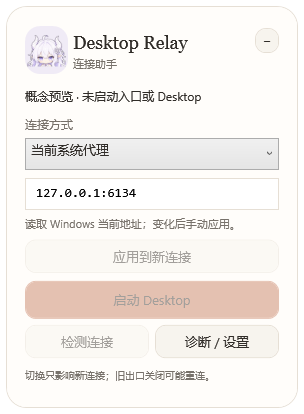
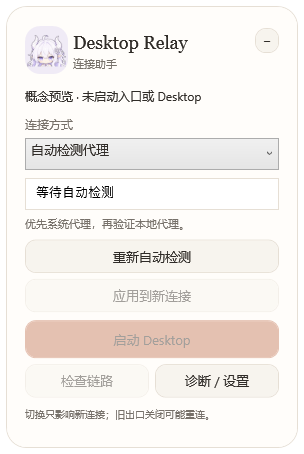
Improve automatic proxy detection, diagnostics and capsule position restoration

diff --git a/src/App/MainWindow.xaml b/src/App/MainWindow.xaml
@@ -1,4 +1,4 @@
-<Window x:Class="DesktopRelay.App.MainWindow" xmlns="http://schemas.microsoft.com/winfx/2006/xaml/presentation" xmlns:x="http://schemas.microsoft.com/winfx/2006/xaml" Title="Desktop Relay" Width="304" Height="428" WindowStyle="None" AllowsTransparency="True" Background="Transparent" ResizeMode="NoResize" ShowInTaskbar="False">
+<Window x:Class="DesktopRelay.App.MainWindow" xmlns="http://schemas.microsoft.com/winfx/2006/xaml/presentation" xmlns:x="http://schemas.microsoft.com/winfx/2006/xaml" Title="Desktop Relay" Width="304" Height="454" WindowStyle="None" AllowsTransparency="True" Background="Transparent" ResizeMode="NoResize" ShowInTaskbar="False">
  <Grid Margin="6">
   <Border x:Name="Card" Background="{StaticResource Paper}" BorderBrush="{StaticResource Line}" BorderThickness="1" CornerRadius="20" Padding="18">
    <Grid><Grid.RowDefinitions><RowDefinition Height="54"/><RowDefinition Height="*"/></Grid.RowDefinitions>
@@ -10,9 +10,10 @@
     <StackPanel Grid.Row="1">
      <TextBlock x:Name="StatusText" Text="入口未启动" FontSize="12" Margin="0,9,0,12" TextWrapping="Wrap"/>
      <TextBlock Text="连接方式" Foreground="{StaticResource Muted}" FontSize="12" Margin="0,0,0,6"/>
-     <ComboBox x:Name="ModeBox" Height="32" SelectionChanged="ModeChanged" FontFamily="Microsoft YaHei" FontSize="13"><ComboBoxItem Content="当前系统代理"/><ComboBoxItem Content="自定义 HTTP 代理"/><ComboBoxItem Content="直连 / TUN"/></ComboBox>
+     <ComboBox x:Name="ModeBox" Height="32" SelectionChanged="ModeChanged" FontFamily="Microsoft YaHei" FontSize="13"><ComboBoxItem Content="自动检测代理"/><ComboBoxItem Content="自定义 HTTP 代理"/><ComboBoxItem Content="直连 / TUN"/></ComboBox>
      <TextBox x:Name="AddressBox" Height="32" Margin="0,8,0,0" Padding="8,6" FontFamily="Consolas" FontSize="13" BorderBrush="{StaticResource Line}" TextChanged="AddressChanged"/>
      <TextBlock x:Name="RouteNote" Text="读取系统代理，不固定软件或端口" FontSize="11" Foreground="{StaticResource Muted}" Margin="0,6,0,6" TextWrapping="Wrap"/>
+     <Button x:Name="DiscoverButton" Content="重新自动检测" Click="DiscoverClick" ToolTip="只读识别代理进程的监听端口，选择后手动应用"/>
      <Button x:Name="ApplyButton" Content="应用到新连接" Click="ApplyClick"/>
      <Button x:Name="LaunchButton" Content="启动 Desktop" Background="#C47758" Foreground="White" BorderBrush="#C47758" Height="38" Margin="0,5,0,3" Click="LaunchClick"/>
      <Grid><Grid.ColumnDefinitions><ColumnDefinition/><ColumnDefinition/></Grid.ColumnDefinitions><Button x:Name="CheckButton" Content="检查链路" Click="CheckClick" Margin="0,3,3,3"/><Button Grid.Column="1" Content="诊断 / 设置" Click="DetailsClick" Margin="3,3,0,3"/></Grid>

diff --git a/src/App/MainWindow.xaml.cs b/src/App/MainWindow.xaml.cs
@@ -30,6 +30,9 @@ public partial class MainWindow : Window
     private Forms.NotifyIcon? tray;
     private Icon? trayIcon;
     private bool initialized, exiting, applied, changed, launched, busy, entryReady;
+    private readonly CapsuleAnchor capsuleAnchor = new();
+    private Route? automaticRoute;
+    private bool detecting;
     private string systemFingerprint = "";
     private string view = "expanded";
     public MainWindow(bool preview)
@@ -41,7 +44,7 @@ public partial class MainWindow : Window
         App.Trace("Before XAML");
         InitializeComponent();
         App.Trace("After XAML");
-        ModeBox.SelectedIndex = Math.Clamp(settings.Mode, 0, 2);
+        ModeBox.SelectedIndex = 0;
         AddressBox.Text = settings.CustomProxy;
         initialized = true;
         Topmost = settings.Topmost;
@@ -100,7 +103,14 @@ public partial class MainWindow : Window
         }
         catch (Exception ex) { StatusText.Text = "入口未就绪"; Log(ex.Message); RouteNote.Text = ex.Message; await relay.StopAsync(); return; }
         systemFingerprint = SystemProxy.Fingerprint();
-        try { ApplySelected(); }
+        // Preserve the last explicit route while isolated probes run; probes never change live forwarding.
+        try
+        {
+            if (settings.Mode == 1) { relay.SwitchRoute(Route.ParseProxy(settings.CustomProxy)); applied = true; }
+            else if (settings.Mode == 2) { relay.SwitchRoute(new Route(RouteMode.Direct)); applied = true; }
+        }
+        catch (Exception ex) { Log("Saved route unavailable: " + ex.Message); }
+        try { await DetectAutomaticAsync(true); }
         catch (Exception ex) { StatusText.Text = "入口就绪 · 等待选择出口"; MiniStatus.Text = "待选择出口"; Log(ex.Message); RouteNote.Text = ex.Message; }
         timer.Tick += (_, _) => Tick(); timer.Start();
         await Task.CompletedTask;
@@ -156,7 +166,7 @@ public partial class MainWindow : Window
     {
         return ModeBox.SelectedIndex switch
         {
-            0 => SystemProxy.Read(),
+            0 => automaticRoute ?? throw new InvalidOperationException("自动检测尚未找到可用代理。"),
             1 => Route.ParseProxy(AddressBox.Text.Trim()),
             2 => new Route(RouteMode.Direct),
             _ => throw new InvalidOperationException("请选择连接方式。")
@@ -169,16 +179,20 @@ public partial class MainWindow : Window
         AddressBox.IsReadOnly = ModeBox.SelectedIndex != 1;
         try
         {
-            if (ModeBox.SelectedIndex == 0) { var route = SystemProxy.Read(); AddressBox.Text = Describe(route); RouteNote.Text = "读取 Windows 当前地址；变化后手动应用。"; }
+            if (ModeBox.SelectedIndex == 0) { AddressBox.Text = automaticRoute == null ? "等待自动检测" : Describe(automaticRoute); RouteNote.Text = "优先系统代理，再验证本地代理。"; }
             else if (ModeBox.SelectedIndex == 1) { AddressBox.Text = settings.CustomProxy; RouteNote.Text = "输入 HTTP / 混合代理入口，不填 VLESS 服务器。"; }
             else { AddressBox.Text = "由系统网络接管"; RouteNote.Text = "不会自动检测或启用 TUN。"; }
         }
-        catch (Exception ex) { AddressBox.Text = "未检测到静态代理"; RouteNote.Text = ex.Message; }
+        catch (Exception ex) { AddressBox.Text = "系统静态代理不可用"; RouteNote.Text = ex.Message + " 可点击发现本地代理。"; }
         changed = true;
         ApplyButton.Content = "应用到新连接";
         ApplyButton.IsEnabled = !preview && entryReady;
     }
-    private void ModeChanged(object sender, SelectionChangedEventArgs e) => RefreshSelection();
+    private async void ModeChanged(object sender, SelectionChangedEventArgs e)
+    {
+        RefreshSelection();
+        if (initialized && entryReady && !detecting && ModeBox.SelectedIndex == 0) await DetectAutomaticAsync(false);
+    }
     private void AddressChanged(object sender, TextChangedEventArgs e)
     {
         if (!initialized || ModeBox.SelectedIndex != 1) return;
@@ -197,7 +211,7 @@ public partial class MainWindow : Window
         if (settings.Mode == 1) settings.CustomProxy = AddressBox.Text.Trim();
         systemFingerprint = SystemProxy.Fingerprint();
         StatusText.Text = "入口就绪 · 出口未检测";
-        MiniStatus.Text = route.Mode == RouteMode.Direct ? "直连 / TUN · 未检测" : (ModeBox.SelectedIndex == 0 ? "系统代理 · 未检测" : "自定义代理 · 未检测");
+        MiniStatus.Text = route.Mode == RouteMode.Direct ? "直连 / TUN · 未检测" : (ModeBox.SelectedIndex == 0 ? "自动代理 · 未检测" : "自定义代理 · 未检测");
         MiniStatus.ToolTip = Describe(route);
         RouteNote.Text = route.Mode == RouteMode.Direct ? "直接连接，由系统网络决定路由。" : "已应用，后续新连接使用此地址。";
         ApplyButton.Content = "已应用"; ApplyButton.IsEnabled = false;
@@ -234,23 +248,95 @@ public partial class MainWindow : Window
     private void Tick()
     {
         UpdateProcessState();
-        if (ModeBox.SelectedIndex != 0) return;
+        if (busy || ModeBox.SelectedIndex != 0) return;
         string next = SystemProxy.Fingerprint();
         if (next != systemFingerprint)
         {
-            systemFingerprint = next; RefreshSelection();
+            systemFingerprint = next; automaticRoute = null; RefreshSelection();
+            _ = DetectAutomaticAsync(false);
             RouteNote.Text = "系统代理已变化。当前出口保持原值，请点击应用。";
             Log("系统代理变化，等待手动应用。");
         }
     }
+    private async Task<bool> ProbeCandidateAsync(string address)
+    {
+        try
+        {
+            using var handler = new HttpClientHandler { UseProxy = true, Proxy = new WebProxy(address), AllowAutoRedirect = false };
+            using var http = new HttpClient(handler) { Timeout = TimeSpan.FromSeconds(8) };
+            using var request = new HttpRequestMessage(HttpMethod.Head, "https://chatgpt.com/") { Version = HttpVersion.Version11, VersionPolicy = HttpVersionPolicy.RequestVersionExact };
+            using var response = await http.SendAsync(request, HttpCompletionOption.ResponseHeadersRead);
+            Log($"Automatic probe address={address} HTTP={(int)response.StatusCode}");
+            // HTTP 403 still proves a completed HTTPS exchange, not account or WebSocket availability.
+            return (int)response.StatusCode < 500;
+        }
+        catch (Exception ex)
+        {
+            for (Exception? cause = ex; cause != null; cause = cause.InnerException)
+                Log($"Automatic probe address={address} failed={cause.GetType().Name}: {cause.Message}");
+            return false;
+        }
+    }
+    private async Task DetectAutomaticAsync(bool applySingle)
+    {
+        if (preview || busy || detecting || !entryReady) return;
+        detecting = busy = true;
+        ModeBox.IsEnabled = AddressBox.IsEnabled = ApplyButton.IsEnabled = CheckButton.IsEnabled = DiscoverButton.IsEnabled = false;
+        StatusText.Text = "正在自动发现并验证代理…";
+        try
+        {
+            string? system = null;
+            try { var route = SystemProxy.Read(); if (!(route.Port == relay.Port && (route.Host == "127.0.0.1" || route.Host == "localhost"))) system = $"http://{route.Host}:{route.Port}"; }
+            catch (Exception ex) { Log("Automatic system proxy unavailable: " + ex.Message); }
+            var candidates = await AutoProxy.ResolveAsync(system, () => LocalProxyDiscovery.ReadAsync(relay.Port), ProbeCandidateAsync);
+            if (candidates.Count == 1)
+            {
+                automaticRoute = Route.ParseProxy(candidates[0].Address);
+                ModeBox.SelectedIndex = 0; RefreshSelection();
+                if (applySingle) ApplySelected();
+                StatusText.Text = applySingle ? "自动代理已应用 · HTTPS 有响应" : "已发现可用代理 · 等待应用";
+                RouteNote.Text = "HTTPS 验证有响应；账号与 WebSocket 仍需实际使用确认。";
+            }
+            else if (candidates.Count == 0)
+            {
+                automaticRoute = null;
+                ModeBox.SelectedIndex = 1; RefreshSelection();
+                StatusText.Text = "自动检测未找到可用代理";
+                RouteNote.Text = "请填写自定义 HTTP 代理，或手动选择直连 / TUN。当前已应用的出口保持不变。";
+            }
+            else
+            {
+                StatusText.Text = "发现多个有 HTTPS 响应的代理";
+                var panel = new StackPanel { Margin = new Thickness(16) };
+                panel.Children.Add(new TextBlock { Text = "请选择出口；选择后点击应用到新连接。", TextWrapping = TextWrapping.Wrap });
+                var window = new Window { Title = "选择自动发现的代理", Width = 460, Height = 320, Owner = this, Content = new ScrollViewer { Content = panel }, WindowStartupLocation = WindowStartupLocation.CenterOwner };
+                foreach (var candidate in candidates)
+                {
+                    var button = new Button { Content = candidate.ProcessName + " · " + candidate.Address, Margin = new Thickness(0,4,0,4) };
+                    button.Click += (_, _) => { automaticRoute = Route.ParseProxy(candidate.Address); ModeBox.SelectedIndex = 0; RefreshSelection(); window.Close(); };
+                    panel.Children.Add(button);
+                }
+                window.Show();
+            }
+        }
+        catch (Exception ex) { StatusText.Text = "自动发现失败"; RouteNote.Text = ex.Message; Log("Automatic discovery failed: " + ex.Message); }
+        finally
+        {
+            detecting = busy = false;
+            ModeBox.IsEnabled = AddressBox.IsEnabled = CheckButton.IsEnabled = DiscoverButton.IsEnabled = true;
+            ApplyButton.IsEnabled = changed; UpdateProcessState();
+        }
+    }
+    private async void DiscoverClick(object sender, RoutedEventArgs e) => await DetectAutomaticAsync(false);
     private async void CheckClick(object sender, RoutedEventArgs e)
     {
         if (preview || busy) return;
-        busy = true; CheckButton.IsEnabled = false;
+        if (!entryReady) { StatusText.Text = "入口尚未就绪"; RouteNote.Text = "没有发起网络检测，请查看入口启动记录。"; Log("Probe skipped: entry not ready"); return; }
+        if (!applied || changed) { StatusText.Text = "所选出口尚未应用"; RouteNote.Text = "请点击应用到新连接，再检查链路；本次未发起网络请求。"; Log("Probe skipped: selected route not applied"); return; }
+        busy = true; CheckButton.IsEnabled = ApplyButton.IsEnabled = ModeBox.IsEnabled = AddressBox.IsEnabled = DiscoverButton.IsEnabled = false;
         StatusText.Text = "正在检查 Relay 转发链路…";
         try
         {
-            if (!entryReady || !applied || changed) throw new InvalidOperationException("请先应用出口，再检查实际转发链路。");
             using var handler = new HttpClientHandler { UseProxy = true, AllowAutoRedirect = false, Proxy = new WebProxy($"http://127.0.0.1:{relay.Port}") };
             using var http = new HttpClient(handler) { Timeout = TimeSpan.FromSeconds(15) };
             using var request = new HttpRequestMessage(HttpMethod.Head, "https://chatgpt.com/") { Version = HttpVersion.Version11, VersionPolicy = HttpVersionPolicy.RequestVersionExact };
@@ -259,16 +345,26 @@ public partial class MainWindow : Window
             RouteNote.Text = "已通过固定入口验证 HTTPS 转发；账号与 Desktop WebSocket 尚需实际请求验证。";
             Log("HTTPS end-to-end probe via relay received HTTP " + (int)response.StatusCode);
         }
-        catch (Exception ex) { StatusText.Text = "Relay 链路检测失败"; RouteNote.Text = "请先应用出口，并检查诊断记录中的失败阶段。"; Log("HTTPS end-to-end probe failed: " + ex.GetType().Name); }
-        finally { busy = false; CheckButton.IsEnabled = true; UpdateProcessState(); }
+        catch (Exception ex)
+        {
+            StatusText.Text = ex is OperationCanceledException ? "HTTPS 检测超时（15 秒）" : "HTTPS 链路检测失败";
+            RouteNote.Text = ex is OperationCanceledException ? "已应用出口，但 15 秒内未收到响应；详见诊断记录。" : ex.Message;
+            for (Exception? cause = ex; cause != null; cause = cause.InnerException)
+                Log("HTTPS end-to-end probe failed: " + cause.GetType().Name + " HResult=" + cause.HResult + ": " + cause.Message);
+        }
+        finally { busy = false; CheckButton.IsEnabled = ModeBox.IsEnabled = AddressBox.IsEnabled = DiscoverButton.IsEnabled = true; ApplyButton.IsEnabled = changed; UpdateProcessState(); }
     }
     private void SetView(string mode)
     {
-        view = mode is "capsule" or "pet" ? "capsule" : "expanded";
+        string nextView = mode is "capsule" or "pet" ? "capsule" : "expanded";
+        if (IsLoaded && view == "capsule" && nextView == "expanded") capsuleAnchor.Remember(Left, Top);
+        bool restoreCapsule = IsLoaded && view == "expanded" && nextView == "capsule";
+        view = nextView;
         Card.Visibility = view == "expanded" ? Visibility.Visible : Visibility.Collapsed;
         Capsule.Visibility = view == "capsule" ? Visibility.Visible : Visibility.Collapsed;
         Width = view == "expanded" ? 304 : 250;
-        Height = view == "expanded" ? 414 : 78;
+        Height = view == "expanded" ? 454 : 78;
+        if (restoreCapsule) { var anchor = capsuleAnchor.Restore(Left, Top); Left = anchor.Left; Top = anchor.Top; }
         settings.View = view;
         if (IsLoaded) { KeepVisible(); Save(); }
     }
@@ -298,7 +394,7 @@ public partial class MainWindow : Window
     {
         var element = e.OriginalSource as DependencyObject;
         while (element != null) { if (element is System.Windows.Controls.Primitives.ButtonBase || element is TextBox || element is ComboBox) return; element = System.Windows.Media.VisualTreeHelper.GetParent(element); }
-        if (e.LeftButton == MouseButtonState.Pressed) { DragMove(); KeepVisible(); Save(); }
+        if (e.LeftButton == MouseButtonState.Pressed) { DragMove(); KeepVisible(); if (view == "capsule") capsuleAnchor.Remember(Left, Top); Save(); }
     }
     private void DetailsClick(object sender, RoutedEventArgs e) => ShowDetails();
     private void ShowDetails()

diff --git a/src/WindowsTests/Program.cs b/src/WindowsTests/Program.cs
@@ -14,6 +14,22 @@ foreach(var setting in new[]{(false,"127.0.0.1:6134"),(true,""),(true,"socks=127
     try{SystemProxy.Parse(setting.Item1,setting.Item2);}catch(InvalidOperationException){rejected=true;}catch(ArgumentException){rejected=true;}
     Assert(rejected,"disabled/unsupported proxy rejected");
 }
+var candidates = LocalProxyDiscovery.Parse("  TCP    127.0.0.1:7892    0.0.0.0:0    LISTENING    2072\n  TCP    0.0.0.0:6134    0.0.0.0:0    LISTENING    42\n  TCP    127.0.0.1:58466    0.0.0.0:0    LISTENING    2072\n  TCP    127.0.0.1:9000    0.0.0.0:0    LISTENING    1\n  TCP    127.0.0.1:7892    1.2.3.4:443    ESTABLISHED    2072", id => id == 2072 ? "FlyingBirdCore" : id == 42 ? "CloudFox" : "other", 58466);
+Assert(candidates.Count == 2 && candidates.Any(c => c.Address == "http://127.0.0.1:7892"), "discovery identifies proxy listeners and excludes relay, unrelated processes and established connections");
+var anchor = new CapsuleAnchor();
+anchor.Remember(1700, 950);
+var restored = anchor.Restore(1500, 550);
+Assert(restored == (1700d, 950d), "expansion clamping does not overwrite capsule anchor");
+anchor.Remember(100, 200);
+Assert(anchor.Restore(0, 0) == (100d,200d), "dragged capsule updates its return position");
+var attempted = new List<string>();
+var autoResult = await AutoProxy.ResolveAsync("http://127.0.0.1:6134", () => Task.FromResult(new List<LocalProxyCandidate>{new("http://127.0.0.1:7892", "FlyingBirdCore")}), address => { attempted.Add(address); return Task.FromResult(true); });
+Assert(autoResult.Count == 1 && attempted.SequenceEqual(new[]{"http://127.0.0.1:6134"}), "usable system proxy takes priority over local discovery");
+attempted.Clear();
+autoResult = await AutoProxy.ResolveAsync("http://127.0.0.1:6134", () => Task.FromResult(new List<LocalProxyCandidate>{new("http://127.0.0.1:7892", "FlyingBirdCore"),new("http://127.0.0.1:10808", "xray")}), address => { attempted.Add(address); return Task.FromResult(address.EndsWith(":7892")); });
+Assert(autoResult.Count == 1 && autoResult[0].Address.EndsWith(":7892"), "failed system and non HTTP listeners fall back to validated local proxy");
+autoResult = await AutoProxy.ResolveAsync(null, () => Task.FromResult(new List<LocalProxyCandidate>{new("http://127.0.0.1:7892", "FlyingBirdCore"),new("http://127.0.0.1:6134", "CloudFox")}), _ => Task.FromResult(true));
+Assert(autoResult.Count == 2, "multiple usable proxies preserved for user selection");
 string? original = Environment.GetEnvironmentVariable("HTTP_PROXY");
 Environment.SetEnvironmentVariable("HTTP_PROXY", "http://127.0.0.1:6134");
 Environment.SetEnvironmentVariable("ALL_PROXY", "socks5://127.0.0.1:1080");

diff --git a/src/App/LocalProxyDiscovery.cs b/src/App/LocalProxyDiscovery.cs
@@ -1,0 +1,38 @@
+using System;
+using System.Collections.Generic;
+using System.Diagnostics;
+using System.Linq;
+using System.Text.RegularExpressions;
+using System.Threading.Tasks;
+
+namespace DesktopRelay.App;
+public sealed record LocalProxyCandidate(string Address, string ProcessName)
+{
+    public override string ToString() => $"{ProcessName} · {Address}（协议待验证）";
+}
+public static class LocalProxyDiscovery
+{
+    public static List<LocalProxyCandidate> Parse(string output, Func<int, string?> processName, int entryPort)
+    {
+        var result = new List<LocalProxyCandidate>();
+        foreach (var line in output.Split('\n'))
+        {
+            var match = Regex.Match(line, @"^\s*TCP\s+(127\.0\.0\.1|0\.0\.0\.0):(\d+)\s+\S+\s+LISTENING\s+(\d+)\s*$", RegexOptions.IgnoreCase);
+            if (!match.Success || !int.TryParse(match.Groups[2].Value, out int port) || port == entryPort) continue;
+            var name = processName(int.Parse(match.Groups[3].Value)) ?? "";
+            if (!Regex.IsMatch(name, "flyingbird|cloud.?fox|v2ray|xray|sing.?box|clash|mihomo", RegexOptions.IgnoreCase)) continue;
+            string address = $"http://127.0.0.1:{port}";
+            if (!result.Any(c => c.Address == address)) result.Add(new(address, name));
+        }
+        return result.OrderBy(c => c.Address).ToList();
+    }
+    public static async Task<List<LocalProxyCandidate>> ReadAsync(int entryPort)
+    {
+        using var process = Process.Start(new ProcessStartInfo(System.IO.Path.Combine(Environment.SystemDirectory, "netstat.exe"), "-ano -p tcp")
+        { UseShellExecute = false, CreateNoWindow = true, RedirectStandardOutput = true }) ?? throw new InvalidOperationException("无法读取本地监听端口。");
+        string output = await process.StandardOutput.ReadToEndAsync();
+        await process.WaitForExitAsync();
+        if (process.ExitCode != 0) throw new InvalidOperationException("读取本地监听端口失败。");
+        return Parse(output, id => { try { using var p = Process.GetProcessById(id); return p.ProcessName; } catch { return null; } }, entryPort);
+    }
+}

diff --git a/src/Core/RelayServer.cs b/src/Core/RelayServer.cs
@@ -137,6 +137,8 @@ public sealed class RelayServer : IAsyncDisposable
         } catch (Exception ex) when (ex is IOException or SocketException or OperationCanceledException or ArgumentException or ObjectDisposedException) {
             string cause = ex is SocketException socket ? $"socket={socket.SocketErrorCode}" : ex is OperationCanceledException ? (stop.IsCancellationRequested ? "cancel=shutdown" : "cancel=handshake-deadline") : "";
             SafeLog($"Connection failed id={id} generation={generation} phase={phase} elapsedMs={clock.ElapsedMilliseconds} upstreamStatus={upstreamStatus?.ToString() ?? "none"} {cause}: {ex.GetType().Name}");
+            for (Exception? inner = ex.InnerException; inner != null; inner = inner.InnerException)
+                SafeLog($"Connection cause id={id} type={inner.GetType().Name} hresult={inner.HResult}" + (inner is SocketException innerSocket ? $" socket={innerSocket.SocketErrorCode} native={innerSocket.NativeErrorCode}" : ""));
             if (!committed && !stop.IsCancellationRequested) try { using var error = new CancellationTokenSource(TimeSpan.FromSeconds(1)); await WriteAsync(downstream, $"HTTP/1.1 {(parsed ? "502 Bad Gateway" : "400 Bad Request")}\r\nConnection: close\r\nContent-Length: 0\r\n\r\n", error.Token); } catch { }
         }
         finally { SafeLog($"Connection end id={id} generation={generation} phase={phase} elapsedMs={clock.ElapsedMilliseconds}"); }

diff --git a/src/App/AutoProxy.cs b/src/App/AutoProxy.cs
@@ -1,0 +1,21 @@
+using System;
+using System.Collections.Generic;
+using System.Linq;
+using System.Threading.Tasks;
+
+namespace DesktopRelay.App;
+public static class AutoProxy
+{
+    public static async Task<List<LocalProxyCandidate>> ResolveAsync(string? system, Func<Task<List<LocalProxyCandidate>>> discover, Func<string,Task<bool>> probe)
+    {
+        if (system != null && await probe(system)) return new() { new(system,"系统代理") };
+        var candidates = (await discover()).Where(c => c.Address != system).DistinctBy(c => c.Address).ToList();
+        using var slots = new System.Threading.SemaphoreSlim(4);
+        var checkedCandidates = await Task.WhenAll(candidates.Select(async candidate => {
+            await slots.WaitAsync();
+            try { return (candidate, valid: await probe(candidate.Address)); }
+            finally { slots.Release(); }
+        }));
+        return checkedCandidates.Where(c => c.valid).Select(c => c.candidate).ToList();
+    }
+}

diff --git a/src/App/CapsuleAnchor.cs b/src/App/CapsuleAnchor.cs
@@ -1,0 +1,7 @@
+namespace DesktopRelay.App;
+public sealed class CapsuleAnchor
+{
+    private (double Left, double Top)? position;
+    public void Remember(double left, double top) => position = (left, top);
+    public (double Left, double Top) Restore(double left, double top) => position ?? (left, top);
+}

diff --git a/README.md b/README.md
@@ -1,6 +1,6 @@
 # Desktop Relay
 
-一个 Windows 小型代理转发与启动工具，为 ChatGPT / Codex Desktop 提供固定的本地代理入口，方便在不同 VPN、v2rayN 或本地 HTTP 代理之间手动切换。
+一个 Windows 小型代理转发与启动工具，为 ChatGPT / Codex Desktop 提供固定的本地代理入口，自动发现本地代理，并方便在不同 VPN、v2rayN 或本地 HTTP 代理之间切换。
 
 **实验性工具。已通过本地协议与回归测试，尚未完成真实 Desktop 账号的完整验收。它不保证所有内部网络实现都遵循默认代理，也不保证运行中的任务无缝切换。**
 
@@ -19,6 +19,9 @@
 - **启动时的代理设置不完整**：同时传入 Chromium 的 `--proxy-server`、本地回环绕过列表，以及 Node 的 `NODE_USE_ENV_PROXY=1`；后端仍获得 `HTTP_PROXY` / `HTTPS_PROXY`。仅修改本次子进程的环境，不写永久环境变量。
 - **切换代理与启动地址耦合**：使用固定本地入口，手动更改新连接的上游出口；不把 Desktop 固定到某两个 VPN 的端口。
 - **检测结果不能代表转发链路**：HTTPS 检测通过 Relay 入口发送，避免绕过 Relay 直接检测上游造成误判。
+- **系统代理关闭时无法发现本地代理**：自动发现已识别代理进程的监听端口，验证后再选择；没有候选时回退到手动配置。
+- **展开后收起位置偏移**：胶囊坐标独立保存，展开时的屏幕边界校正不再覆盖它。
+- **未应用出口误报网络失败**：明确区分前置状态、HTTPS 超时和真实连接异常，补充内部错误。
 - **退出后无法追查失败**：将脱敏诊断保存到磁盘，记录连接编号、目标域名/端口、路由代数、阶段、耗时、上游 CONNECT 状态和套接字错误。
 
 这些修正解决的是工具的启动配置、转发与诊断缺陷。**没有证据证明原始 `Reconnecting` 的所有情况都由代理端口造成，也不声称消除了 Desktop 自身的 WebSocket、DNS 或连接池问题。**
@@ -28,8 +31,8 @@
 需要 Windows 和 .NET 8 Windows Desktop Runtime。可从仓库的 Releases 获取便携包；也可以按下面的步骤自行构建。
 
 1. 解压到可写目录，运行 `DesktopRelay.exe`，保持同目录的文件完整。
-2. 选择“当前系统代理”或填写 VPN / v2rayN 的本地 HTTP、混合代理地址。
-3. 点击“应用到新连接”，再点击“检查链路”。收到 HTTP 响应说明 HTTPS 链路收到回复；`401`、`403` 不表示账号功能已验证。
+2. 启动后默认自动检测：先验证系统静态代理，再发现并验证本地代理。只有一个候选有 HTTPS 响应时自动应用；多个候选让你选择；都失败时再填写自定义 HTTP 代理或选择直连 / TUN。
+3. 手动选择或更改出口后点击“应用到新连接”，再点击“检查链路”。收到 HTTP 响应说明 HTTPS 链路收到回复；`401`、`403` 不表示账号功能已验证。
 4. 等当前任务结束后完整退出已有 Desktop，再由挂件点击“启动 Desktop”。已经运行的进程不会被强制关闭，也不能补加新启动参数。
 5. 之后可保持 Desktop 打开，选择新出口并应用。新建连接使用新出口，已有隧道和连接池仍可能使用旧出口。
 
@@ -81,3 +84,15 @@ dotnet run --project src/WindowsTests/DesktopRelay.WindowsTests.csproj -c Releas
 ## 许可
 
 代码采用 MIT 许可。品牌标志和第三方素材的权利不因本仓库许可而转移。
+
+### 本地代理发现与检测提示
+
+“重新自动检测”会识别 Flyingbird、Cloud Fox、v2ray/xray、sing-box、Clash/mihomo 进程的 IPv4 监听端口（含 0.0.0.0）。监听端口只是候选，不保证为 HTTP，因此会先验证 HTTPS 响应。手动选择后仍可通过“检查链路”验证完整 Relay 入口。其他软件、IPv6、PAC 和 TUN 不在此发现范围，可手动配置。系统代理关闭与本地代理运行是两个不同状态。
+
+未应用出口时不会执行检测，会明确提示；检测异常记录消息及内部异常，超时单独显示。切换只影响新连接。
+
+### 自动检测与位置恢复
+
+启动默认自动检测：优先验证 Windows 静态 HTTP 代理，不可用时验证本地代理候选。单个候选收到 HTTPS HTTP 响应时自动应用；多个候选让用户选择；全部失败才提示自定义 HTTP 或直连/TUN。探测与活动 Relay 分离，不为了试候选而切换现有出口。403 只代表 HTTPS 有响应，不保证账号或 WebSocket 可用。自动发现仍限于已识别进程的 IPv4 监听端口。
+
+从胶囊展开时独立记录胶囊坐标，展开面板可因屏幕边界移动，收起后恢复胶囊坐标，再按当前屏幕工作区校正。
